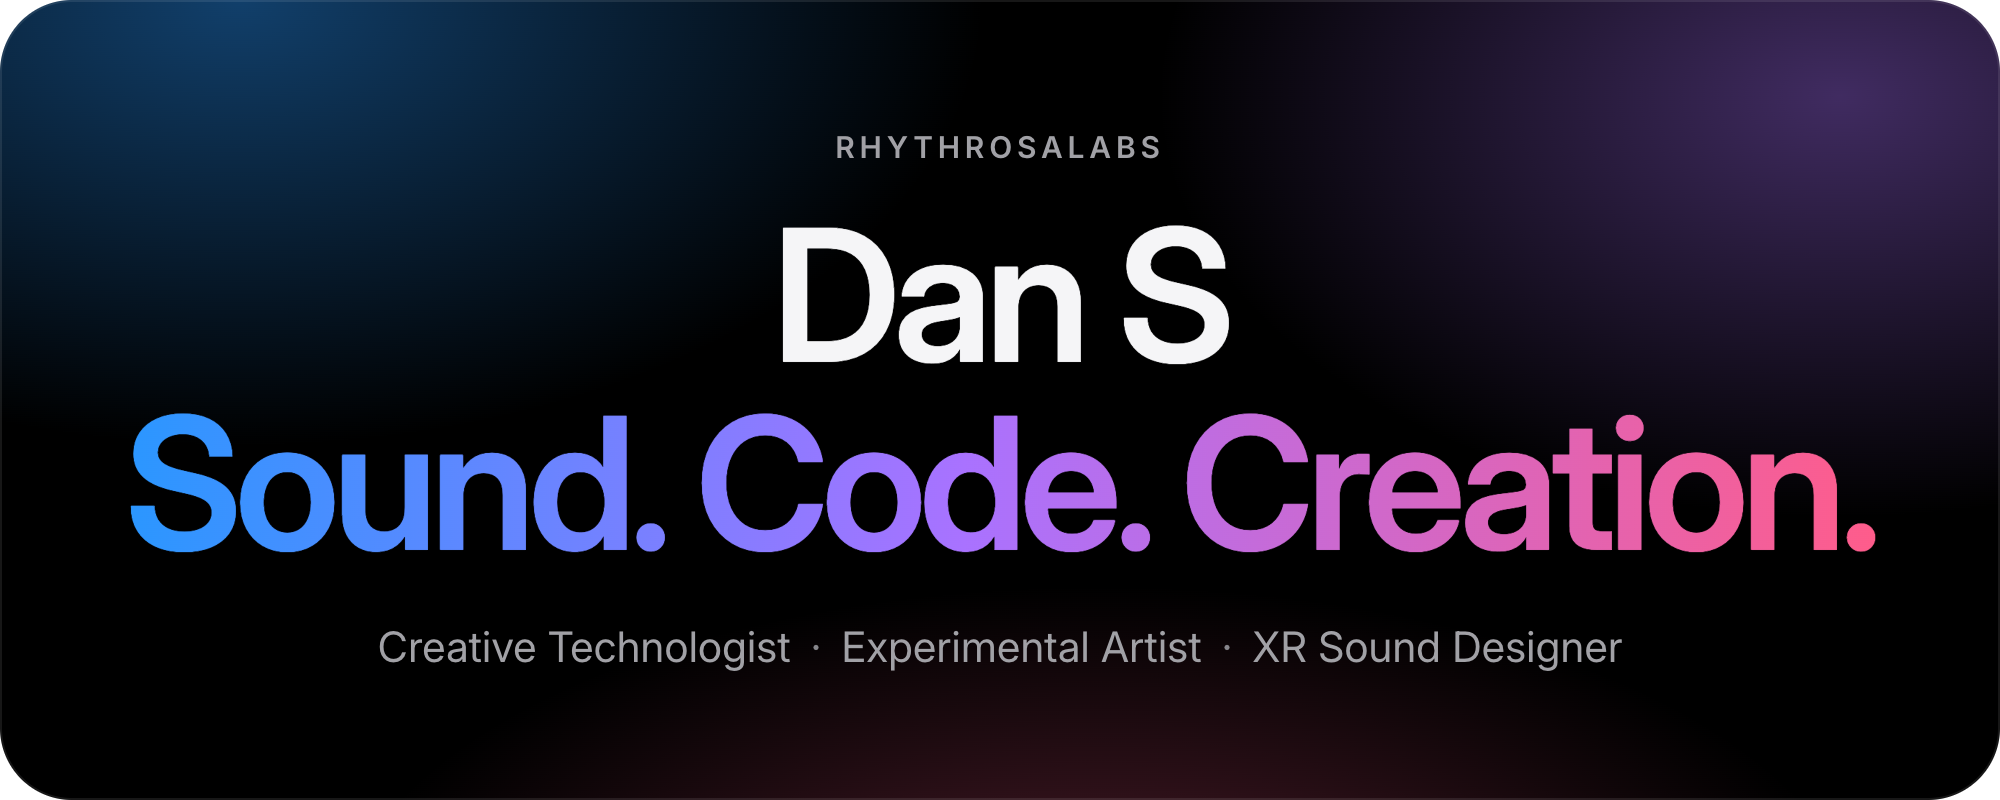
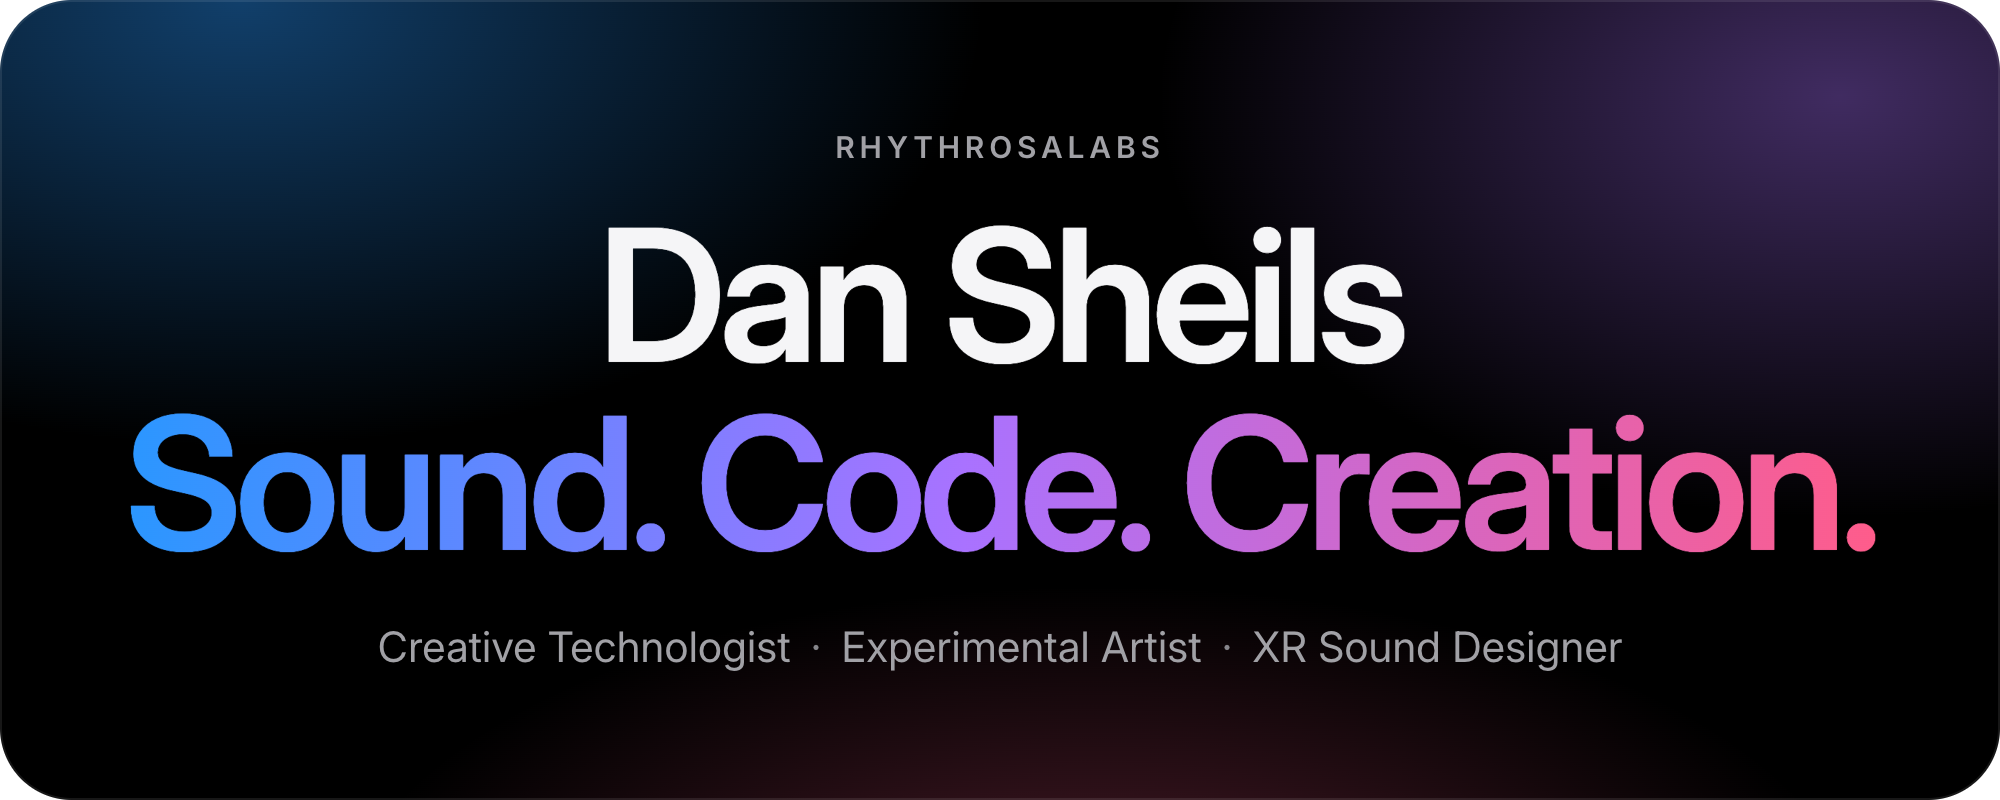
Animate project cards with app walkthroughs; use full name in header

Changed region(s): [[0.279, 0.2812, 0.713, 0.4688]]

diff --git a/README.md b/README.md
@@ -1,6 +1,6 @@
 <div align="center">
 
-<picture><source media="(prefers-color-scheme: dark)" srcset="assets/hero-dark.png"><source media="(prefers-color-scheme: light)" srcset="assets/hero-light.png"><img src="assets/hero-dark.png" width="100%" alt="Dan S · RhythrosaLabs. Sound. Code. Creation. Creative Technologist · Experimental Artist · XR Sound Designer"></picture>
+<picture><source media="(prefers-color-scheme: dark)" srcset="assets/hero-dark.png"><source media="(prefers-color-scheme: light)" srcset="assets/hero-light.png"><img src="assets/hero-dark.png" width="100%" alt="Dan Sheils · RhythrosaLabs. Sound. Code. Creation. Creative Technologist · Experimental Artist · XR Sound Designer"></picture>
 
 <br>
 
@@ -51,19 +51,19 @@ I focus on production-ready systems where AI is deeply integrated into real crea
 ## 🌟 Featured Projects
 
 <p align="center">
-<a href="https://github.com/RhythrosaLabs/otto-mate-2"><picture><source media="(prefers-color-scheme: dark)" srcset="assets/card-ottomate-dark.png"><source media="(prefers-color-scheme: light)" srcset="assets/card-ottomate-light.png"><img src="assets/card-ottomate-dark.png" width="100%" alt="Ottomate: a universal AI agent workbench with connectors, skills, browser automation and visual pipelines"></picture></a>
+<a href="https://github.com/RhythrosaLabs/otto-mate-2"><picture><source media="(prefers-color-scheme: dark)" srcset="assets/card-ottomate-dark.gif"><source media="(prefers-color-scheme: light)" srcset="assets/card-ottomate-light.gif"><img src="assets/card-ottomate-dark.gif" width="100%" alt="Ottomate: a universal AI agent workbench with connectors, skills, browser automation and visual pipelines"></picture></a>
 </p>
 <p align="center">
-<a href="https://github.com/RhythrosaLabs/labelflow"><picture><source media="(prefers-color-scheme: dark)" srcset="assets/card-labelflow-dark.png"><source media="(prefers-color-scheme: light)" srcset="assets/card-labelflow-light.png"><img src="assets/card-labelflow-dark.png" width="49%" alt="LabelFlow: record label management for artists, campaigns, analytics and marketing"></picture></a>
-<a href="https://github.com/RhythrosaLabs/streamlit-node-editor"><picture><source media="(prefers-color-scheme: dark)" srcset="assets/card-node-editor-dark.png"><source media="(prefers-color-scheme: light)" srcset="assets/card-node-editor-light.png"><img src="assets/card-node-editor-dark.png" width="49%" alt="Streamlit Node Editor: a node graph editor with typed ports and drag-to-connect wiring"></picture></a>
+<a href="https://github.com/RhythrosaLabs/labelflow"><picture><source media="(prefers-color-scheme: dark)" srcset="assets/card-labelflow-dark.gif"><source media="(prefers-color-scheme: light)" srcset="assets/card-labelflow-light.gif"><img src="assets/card-labelflow-dark.gif" width="49%" alt="LabelFlow: record label management for artists, campaigns, analytics and marketing"></picture></a>
+<a href="https://github.com/RhythrosaLabs/streamlit-node-editor"><picture><source media="(prefers-color-scheme: dark)" srcset="assets/card-node-editor-dark.gif"><source media="(prefers-color-scheme: light)" srcset="assets/card-node-editor-light.gif"><img src="assets/card-node-editor-dark.gif" width="49%" alt="Streamlit Node Editor: a node graph editor with typed ports and drag-to-connect wiring"></picture></a>
 </p>
 <p align="center">
-<a href="https://github.com/RhythrosaLabs/streamlit-kanban"><picture><source media="(prefers-color-scheme: dark)" srcset="assets/card-kanban-dark.png"><source media="(prefers-color-scheme: light)" srcset="assets/card-kanban-light.png"><img src="assets/card-kanban-dark.png" width="49%" alt="Streamlit Kanban: a drag-and-drop kanban board for any Python app"></picture></a>
-<a href="https://github.com/RhythrosaLabs/streamlit-audio-editor"><picture><source media="(prefers-color-scheme: dark)" srcset="assets/card-audio-editor-dark.png"><source media="(prefers-color-scheme: light)" srcset="assets/card-audio-editor-light.png"><img src="assets/card-audio-editor-dark.png" width="49%" alt="Streamlit Audio Editor: trim, gain, loop, effects and WAV export in the browser"></picture></a>
+<a href="https://github.com/RhythrosaLabs/streamlit-kanban"><picture><source media="(prefers-color-scheme: dark)" srcset="assets/card-kanban-dark.gif"><source media="(prefers-color-scheme: light)" srcset="assets/card-kanban-light.gif"><img src="assets/card-kanban-dark.gif" width="49%" alt="Streamlit Kanban: a drag-and-drop kanban board for any Python app"></picture></a>
+<a href="https://github.com/RhythrosaLabs/streamlit-audio-editor"><picture><source media="(prefers-color-scheme: dark)" srcset="assets/card-audio-editor-dark.gif"><source media="(prefers-color-scheme: light)" srcset="assets/card-audio-editor-light.gif"><img src="assets/card-audio-editor-dark.gif" width="49%" alt="Streamlit Audio Editor: trim, gain, loop, effects and WAV export in the browser"></picture></a>
 </p>
 <p align="center">
-<a href="https://github.com/RhythrosaLabs/ai-blog-writer"><picture><source media="(prefers-color-scheme: dark)" srcset="assets/card-blog-writer-dark.png"><source media="(prefers-color-scheme: light)" srcset="assets/card-blog-writer-light.png"><img src="assets/card-blog-writer-dark.png" width="49%" alt="AI Blog Writer: a browser-based studio for drafting, editing and publishing long-form posts"></picture></a>
-<a href="https://github.com/RhythrosaLabs/genesis-physics-lab"><picture><source media="(prefers-color-scheme: dark)" srcset="assets/card-genesis-dark.png"><source media="(prefers-color-scheme: light)" srcset="assets/card-genesis-light.png"><img src="assets/card-genesis-dark.png" width="49%" alt="Genesis Physics Lab: an interactive web UI for the Genesis physics engine"></picture></a>
+<a href="https://github.com/RhythrosaLabs/ai-blog-writer"><picture><source media="(prefers-color-scheme: dark)" srcset="assets/card-blog-writer-dark.gif"><source media="(prefers-color-scheme: light)" srcset="assets/card-blog-writer-light.gif"><img src="assets/card-blog-writer-dark.gif" width="49%" alt="AI Blog Writer: a browser-based studio for drafting, editing and publishing long-form posts"></picture></a>
+<a href="https://github.com/RhythrosaLabs/genesis-physics-lab"><picture><source media="(prefers-color-scheme: dark)" srcset="assets/card-genesis-dark.gif"><source media="(prefers-color-scheme: light)" srcset="assets/card-genesis-light.gif"><img src="assets/card-genesis-dark.gif" width="49%" alt="Genesis Physics Lab: an interactive web UI for the Genesis physics engine"></picture></a>
 </p>
 
 Built in public with an emphasis on practical outcomes, collaborative development, and consistent shipping.
